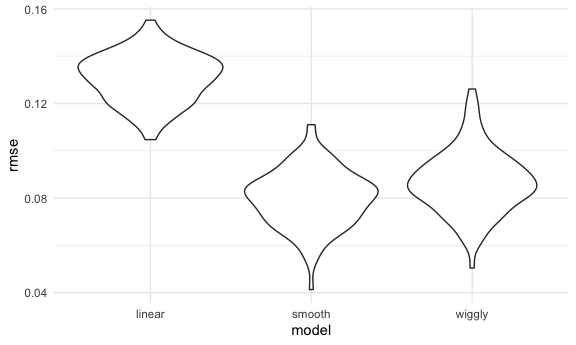
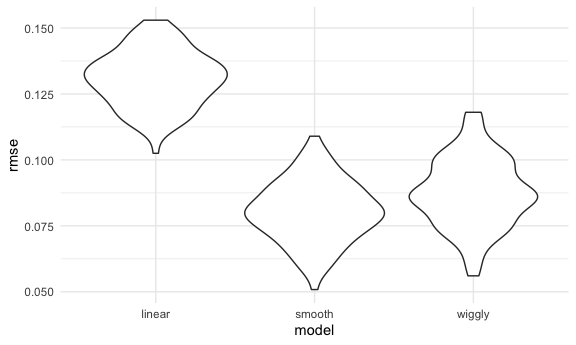
through nepalese children example super quick

diff --git a/02_cross_validation.md b/02_cross_validation.md
@@ -77,19 +77,19 @@ do a model comparison!
 rmse(linear_mod, test_df)
 ```
 
-    ## [1] 0.13222
+    ## [1] 0.1431431
 
 ``` r
 rmse(smooth_mod, test_df)
 ```
 
-    ## [1] 0.08631311
+    ## [1] 0.08723048
 
 ``` r
 rmse(wiggly_mod, test_df)
 ```
 
-    ## [1] 0.09691987
+    ## [1] 0.09290659
 
 ## Repeat a bunch of times
 
@@ -105,16 +105,16 @@ cv_df |>  pull(train) |> nth(3) |> as_tibble()
     ## # A tibble: 176 × 3
     ##       id range logratio
     ##    <int> <dbl>    <dbl>
-    ##  1     3   393  -0.0419
-    ##  2     4   394  -0.0510
-    ##  3     5   396  -0.0599
-    ##  4     7   399  -0.0596
-    ##  5     8   400  -0.0399
+    ##  1     1   390  -0.0504
+    ##  2     2   391  -0.0601
+    ##  3     3   393  -0.0419
+    ##  4     5   396  -0.0599
+    ##  5     7   399  -0.0596
     ##  6     9   402  -0.0294
-    ##  7    11   405  -0.0476
-    ##  8    12   406  -0.0604
-    ##  9    13   408  -0.0312
-    ## 10    14   409  -0.0382
+    ##  7    10   403  -0.0395
+    ##  8    11   405  -0.0476
+    ##  9    12   406  -0.0604
+    ## 10    13   408  -0.0312
     ## # ℹ 166 more rows
 
 ``` r
@@ -167,3 +167,111 @@ cv_df |>
 ```
 
 <img src="02_cross_validation_files/figure-gfm/unnamed-chunk-12-1.png" alt="" width="90%" />
+
+## Child growth
+
+``` r
+growth_df = 
+  read_csv("data/nepalese_children.csv") |> 
+  mutate(
+    weight_ch7 = (weight > 7) * (weight - 7)
+  )
+```
+
+    ## Rows: 2705 Columns: 5
+    ## ── Column specification ────────────────────────────────────────────────────────
+    ## Delimiter: ","
+    ## dbl (5): age, sex, weight, height, armc
+    ## 
+    ## ℹ Use `spec()` to retrieve the full column specification for this data.
+    ## ℹ Specify the column types or set `show_col_types = FALSE` to quiet this message.
+
+look at this
+
+``` r
+growth_df
+```
+
+    ## # A tibble: 2,705 × 6
+    ##      age   sex weight height  armc weight_ch7
+    ##    <dbl> <dbl>  <dbl>  <dbl> <dbl>      <dbl>
+    ##  1    41     1   12.8   91.2  14.3        5.8
+    ##  2    57     2   14.9  104.   13.9        7.9
+    ##  3    35     2   12.1   86.4  14.4        5.1
+    ##  4    46     1   13.9   96.4  13.5        6.9
+    ##  5    26     2    8.7   78.5  12.1        1.7
+    ##  6    57     1   12.1   89.9  13.9        5.1
+    ##  7    22     1    9.8   79.1  13          2.8
+    ##  8    55     1   13.7   92.6  13.6        6.7
+    ##  9    20     1   10.1   77.7  14.5        3.1
+    ## 10    36     2   11.2   79.8  14.4        4.2
+    ## # ℹ 2,695 more rows
+
+``` r
+growth_df |> 
+  ggplot(aes(x = weight, y = armc)) + 
+  geom_point(alpha = .5)
+```
+
+<img src="02_cross_validation_files/figure-gfm/unnamed-chunk-14-1.png" alt="" width="90%" />
+
+``` r
+linear_fit = lm(armc ~ weight, data = growth_df)
+pwl_fit    = lm(armc ~ weight + weight_ch7, data = growth_df)
+smooth_fit = gam(armc ~ s(weight), data = growth_df)
+```
+
+``` r
+growth_df |> 
+  add_predictions(pwl_fit) |> 
+  ggplot(aes(x = weight, y = armc)) + 
+  geom_point(alpha = .5) + 
+  geom_line(aes(y = pred), color = "red")
+```
+
+<img src="02_cross_validation_files/figure-gfm/unnamed-chunk-16-1.png" alt="" width="90%" />
+
+do all the CV stuff we know and love
+
+``` r
+cv_df = 
+  crossv_mc(growth_df, 100) |> 
+  mutate(
+    train = map(train, as_tibble),
+    test = map(test, as_tibble)
+  )
+```
+
+here i’m fitting models and getting rmses
+
+``` r
+cv_df = 
+  cv_df |> 
+  mutate(
+    linear_fit = map(train, \(df) lm(armc ~ weight, data = df)),
+    pwl_fit    = map(train, \(df) lm(armc ~ weight + weight_ch7, data = df)),
+    smooth_fit = map(train, \(df) gam(armc ~ s(weight), data = df))
+  ) |> 
+  mutate(
+    rmse_linear = map2_dbl(linear_fit, test, rmse),
+    rmse_pwl    = map2_dbl(pwl_fit, test, rmse),
+    rmse_smooth = map2_dbl(smooth_fit, test, rmse)
+  )
+```
+
+Look at this!!
+
+``` r
+cv_df |> 
+  select(starts_with("rmse_")) |> 
+  pivot_longer(
+    everything(),
+    names_to = "model",
+    names_prefix = "rmse_",
+    values_to = "rmse"
+  ) |> 
+  ggplot(aes(x = model, y = rmse)) + 
+  geom_violin()
+```
+
+<img src="02_cross_validation_files/figure-gfm/unnamed-chunk-19-1.png" alt="" width="90%" />
